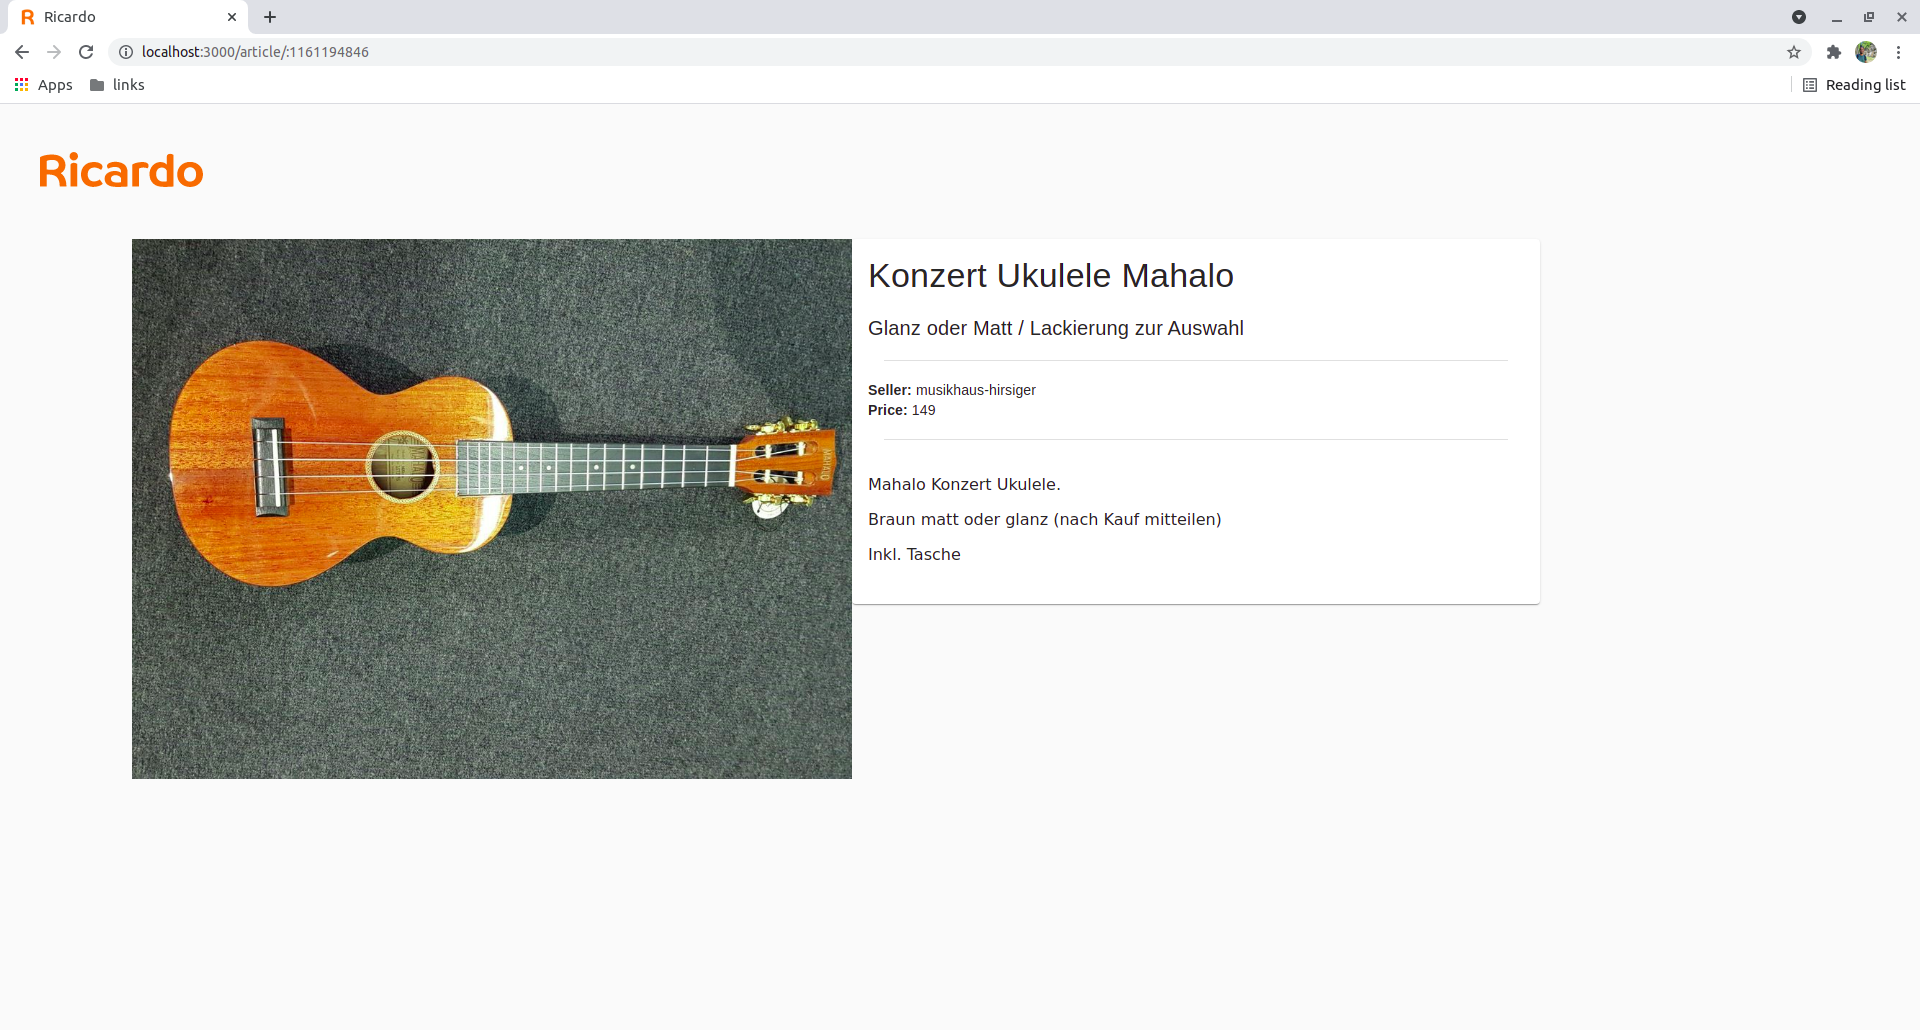
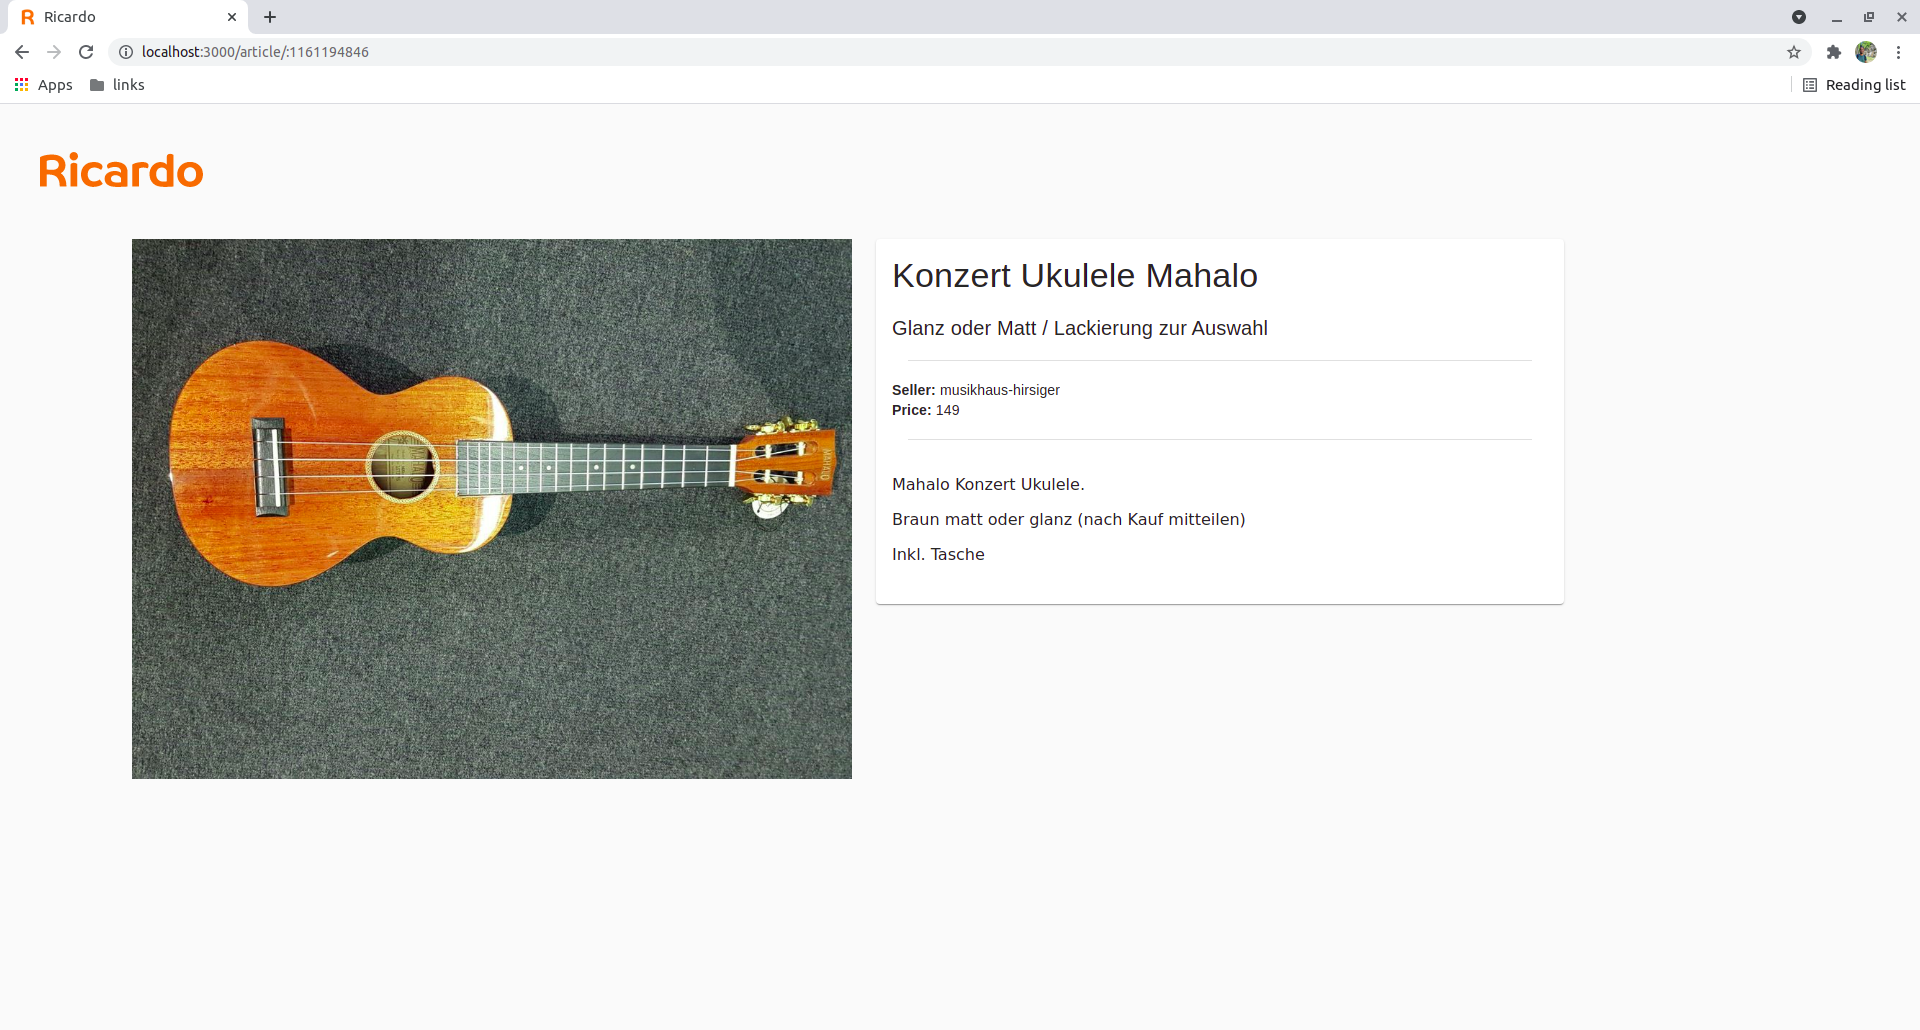
correct spacing between image and article card in product details page update the images

diff --git a/src/styles/wrappers.js b/src/styles/wrappers.js
@@ -47,6 +47,8 @@ export const ArticleWrapper = styled.div `
         width: 40vw;
         min-width: 18rem;
         max-width: 45rem;
+
+        margin-right: 1.5rem;
     };
 
     @media only screen and (max-width: 1024px) {
